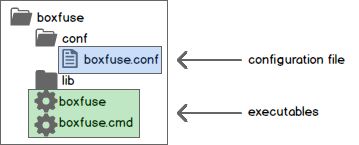
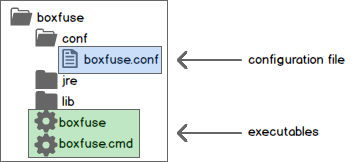
Removed JRE requirement for command-line tool

Changed region(s): [[0.0306, 0.0276, 0.4596, 0.9931], [0.4903, 0.3034, 0.9805, 0.469], [0.4903, 0.7172, 0.8886, 0.8828]]

diff --git a/docs/commandline/index.html b/docs/commandline/index.html
@@ -18,8 +18,7 @@ pill: Overview
 
 <ul>
     <li>Boxfuse Account</li>
-    <li>Working Java 6+ installation</li>
-    <li>Working VirtualBox installation (for VirtualBox deployments)</li>
+    <li>VirtualBox installation (for VirtualBox deployments)</li>
     <li>AWS Account (for AWS deployments)</li>
 </ul>
 
